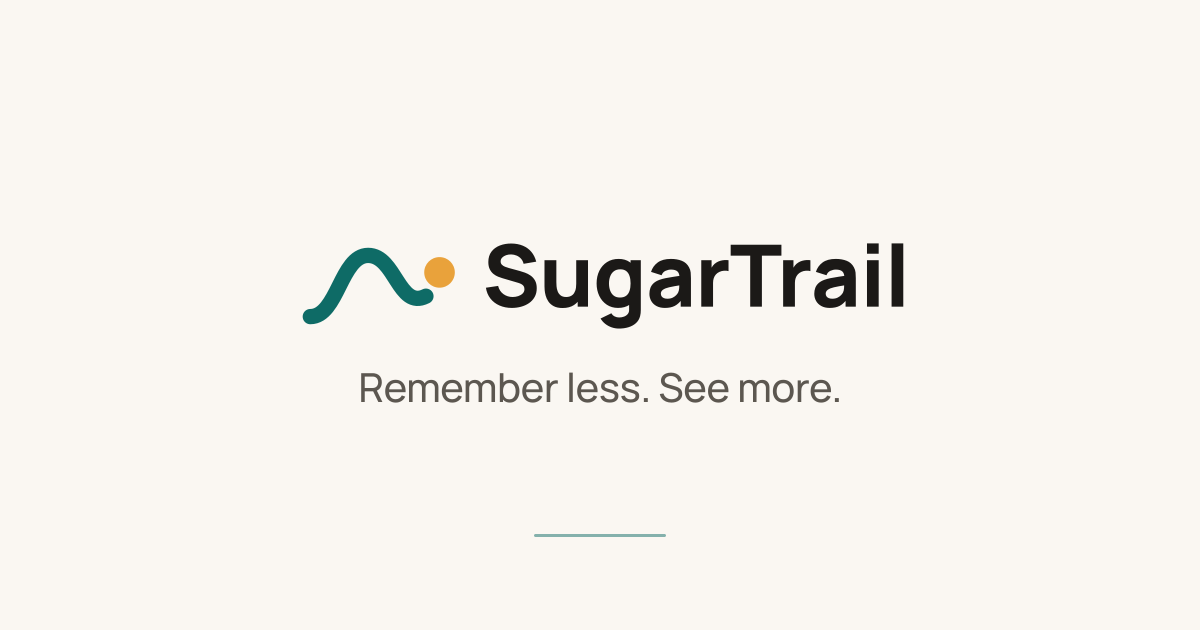
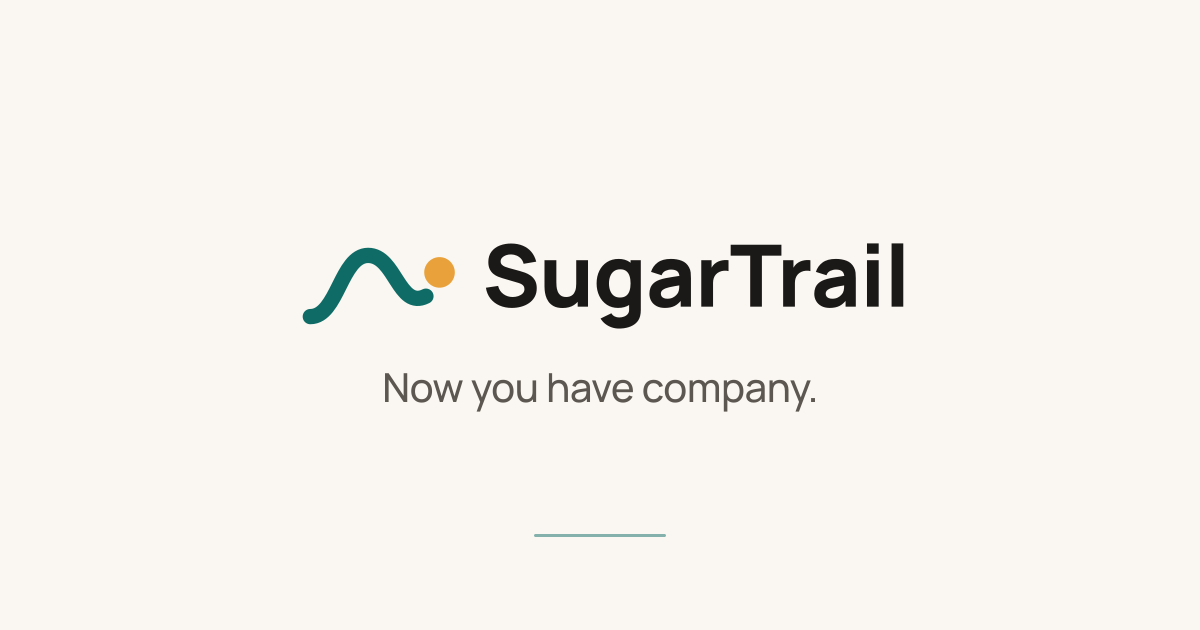
copy: the companion, first - and the trail ahead in place of the limits
"Diabetes is a long walk. Now you have company." leads instead of the old
benefit line: the headline now says what SugarTrail is rather than what it
saves you, which is the positioning the app was always written for.

The limits section becomes the road ahead - six things being built, in
roughly the order they arrive, with no dates attached to any of them. The
"not a medical device" line stays in the footer, where it belongs anyway.

The phone now shows the food memory rather than the calm state: a meal the
app recognises, what it did last time, and the curve it made. A stranger
can read that in a second; a quiet screen needs to be lived to be
understood.

Changed region(s): [[0.2775, 0.573, 0.7092, 0.6635]]

diff --git a/index.html b/index.html
@@ -67,7 +67,7 @@
         </a>
         <nav class="head-links" aria-label="Primary">
           <a class="on-wide" href="#does">What it does</a>
-          <a class="on-wide" href="#limits">Limits</a>
+          <a class="on-wide" href="#ahead">What is next</a>
           <a href="/privacy">Privacy</a>
         </nav>
       </div>
@@ -96,9 +96,8 @@
 
           <span class="eyebrow">A care buddy for diabetes</span>
           <h1 class="display">
-            <span class="line">Remember less.</span>
-            <span class="line">See more.</span>
-            <span class="line">Never walk it alone.</span>
+            <span class="line">Diabetes is a long walk.</span>
+            <span class="line">Now you have company.</span>
           </h1>
           <p class="lead">
             SugarTrail keeps your days in one place, shows you what works for you, reminds
@@ -115,8 +114,8 @@
                 <path d="M5 12h14M13 6l6 6-6 6" />
               </svg>
             </a>
-            <a class="btn-quiet" href="#limits"
-              >What it will not do
+            <a class="btn-quiet" href="#ahead"
+              >See what is coming
               <svg viewBox="0 0 24 24" fill="none" stroke="currentColor" stroke-width="2.2"
                 stroke-linecap="round" stroke-linejoin="round" aria-hidden="true">
                 <path d="M5 12h14M13 6l6 6-6 6" />
@@ -128,7 +127,7 @@
           <figure
             class="device-stage"
             role="img"
-            aria-label="The SugarTrail Now screen on a phone. A glucose reading of 118 milligrams per decilitre from Dexcom, marked in your range, above a card that reads: nothing needs your attention right now."
+            aria-label="The SugarTrail Now screen on a phone. A glucose reading of 118 milligrams per decilitre from Dexcom, marked in your range, above a card recalling the last time this meal was eaten: oats with berries, last Tuesday, 45 grams of carbohydrate with 4 units of insulin 18 minutes before, peaking at 168 and back in range by two hours."
           >
             <div class="device-scale">
               <div class="device-float">
@@ -169,13 +168,15 @@
                       <p class="s-src">Dexcom · 1 hour ago</p>
                     </div>
 
-                    <div class="s-card s-calm">
-                      <svg viewBox="0 0 300 40" preserveAspectRatio="none">
-                        <path d="M4 30 C 40 30, 50 8, 90 12 S 150 34, 190 22 S 250 6, 286 14" fill="none" stroke="var(--trail)" stroke-width="3" stroke-linecap="round" />
-                        <circle cx="290" cy="13" r="5" fill="var(--sunrise)" />
+                    <div class="s-card s-memory">
+                      <span class="s-label">You have had this before</span>
+                      <p class="s-food">Oats with berries</p>
+                      <svg class="s-spark" viewBox="0 0 260 44" preserveAspectRatio="none">
+                        <path d="M3 33 C 38 32, 68 9, 108 8 S 192 20, 257 27" fill="none" stroke="var(--trail)" stroke-width="2.6" stroke-linecap="round" />
+                        <circle cx="108" cy="8" r="4" fill="var(--sunrise)" />
                       </svg>
-                      <p class="s-calm-title">Nothing needs your attention right now.</p>
-                      <p class="s-src">Every feed is fresh. Enjoy the quiet.</p>
+                      <p class="s-meta">Last Tuesday · 45 g · 4.0 units · 18 min before</p>
+                      <p class="s-src">Peaked at 168. Back in range by two hours.</p>
                     </div>
 
                     <div class="s-strip">
@@ -501,64 +502,67 @@
         </div>
       </section>
 
-      <!-- -------------------------------------------------------- limits -->
-      <section id="limits" class="limits">
+      <!-- --------------------------------------------------------- ahead -->
+      <section id="ahead" class="ahead">
         <div class="shell">
           <div class="sec-head reveal">
-            <span class="eyebrow">Just as important</span>
-            <h2 class="title">What SugarTrail will not do.</h2>
+            <span class="eyebrow">What is next</span>
+            <h2 class="title">The trail ahead.</h2>
             <p class="lead">
-              An app that is vague about its limits is not being careful with you. These are
-              ours. They are enforced in the code, not promised in the marketing.
+              SugarTrail is being built one honest piece at a time. This is what is coming,
+              in roughly the order it arrives.
             </p>
           </div>
 
-          <ul class="limits-list">
+          <ul class="ahead-list">
             <li class="reveal">
-              <h3>It is not a medical device.</h3>
+              <h3>Every source, one trail.</h3>
               <p>
-                SugarTrail does not diagnose, treat or monitor. It records what happened and
-                shows it back. Every clinical decision stays with you and your clinician.
+                Your sensor, your pump and your phone, connected one at a time - so you
+                never type in something a device already knows.
               </p>
             </li>
             <li class="reveal">
-              <h3>It never calculates a dose.</h3>
+              <h3>The food memory.</h3>
               <p>
-                Your ratios, factors and targets are shown exactly as your clinic wrote them,
-                at the moment they are useful. The app never turns them into a number of
-                units.
+                Photograph a meal once. The next time you eat it, SugarTrail knows what it
+                is and what it did to you last time.
               </p>
             </li>
             <li class="reveal">
-              <h3>It is not an alarm.</h3>
+              <h3>Rooms for the moment you are in.</h3>
               <p>
-                Readings reach SugarTrail minutes to hours after they are taken, so it is
-                never the thing that warns you. Your sensor’s own app owns alerts, and it
-                always will.
+                Newly diagnosed, starting a pump, pregnancy, a trip, a hospital stay. Small
+                groups that end when the moment does.
               </p>
             </li>
             <li class="reveal">
-              <h3>It does not write medical advice.</h3>
+              <h3>Parents, together.</h3>
               <p>
-                Anything educational is quoted from a named source and linked to it, never
-                written in our own voice. The app is a librarian, not an author.
+                For parents of children with type 1, grouped by the age their child is now,
+                because the questions change every year.
               </p>
             </li>
             <li class="reveal">
-              <h3>It cannot fill in what nobody recorded.</h3>
+              <h3>Labs and medicines, from your clinic.</h3>
               <p>
-                Where a number is missing, the app says so plainly. It will never show an
-                invented value to make a gap look tidy.
+                Your results and your prescription list, pulled in from your health record,
+                so the numbers you are asked about are already there.
               </p>
             </li>
             <li class="reveal">
-              <h3>It is not finished.</h3>
+              <h3>Android.</h3>
               <p>
-                SugarTrail is in active development and not yet on the App Store. Connections
-                arrive one at a time, and this page says what is real today.
+                SugarTrail starts on iPhone because that is where the connections open
+                first. Android follows.
               </p>
             </li>
           </ul>
+
+          <p class="burdens-note reveal">
+            None of this carries a date. We would rather ship each piece when it is right
+            than promise you a month.
+          </p>
         </div>
       </section>
 
@@ -623,7 +627,7 @@
               <li><a href="#does">What it does</a></li>
               <li><a href="#works">Why it works</a></li>
               <li><a href="#promises">Promises</a></li>
-              <li><a href="#limits">Limits</a></li>
+              <li><a href="#ahead">What is next</a></li>
             </ul>
           </nav>
 

diff --git a/assets/site.css b/assets/site.css
@@ -694,29 +694,29 @@ section {
   font-size: 1rem;
 }
 
-/* ---------- Limits: the honest half -------------------------------------- */
-.limits {
+/* ---------- The trail ahead ---------------------------------------------- */
+.ahead {
   background: var(--surface);
   border-block: 1px solid var(--line);
 }
 
-.limits-list {
+.ahead-list {
   display: grid;
   gap: clamp(1.4rem, 2.8vw, 2.25rem);
 }
 
 @media (min-width: 52rem) {
-  .limits-list {
+  .ahead-list {
     grid-template-columns: repeat(2, 1fr);
     column-gap: clamp(2rem, 5vw, 4.5rem);
   }
 }
 
-.limits-list li {
+.ahead-list li {
   max-width: 30rem;
 }
 
-.limits-list h3 {
+.ahead-list h3 {
   font-size: 1.0625rem;
   font-weight: 700;
   padding-top: 0.9rem;
@@ -725,7 +725,7 @@ section {
   margin-bottom: 0.4rem;
 }
 
-.limits-list p {
+.ahead-list p {
   color: var(--ink-2);
   font-size: 1rem;
 }
@@ -1537,4 +1537,34 @@ section {
   left: 88%;
   background: var(--in-range);
   border-color: var(--surface);
+}
+
+/* The food memory, the card the phone leads with. */
+.s-memory .s-label {
+  display: block;
+}
+
+.s-food {
+  font-size: 15px;
+  font-weight: 700;
+  letter-spacing: -0.015em;
+  margin-top: 3px;
+  color: var(--ink);
+}
+
+.s-spark {
+  width: 100%;
+  height: 38px;
+  margin: 7px 0 6px;
+  overflow: visible;
+}
+
+.s-meta {
+  font-size: 10.5px;
+  font-weight: 600;
+  color: var(--ink);
+}
+
+.s-memory .s-src {
+  margin-top: 3px;
 }

diff --git a/privacy/index.html b/privacy/index.html
@@ -245,7 +245,7 @@
             <h2 id="f1">The app</h2>
             <ul>
               <li><a href="/#does">What it does</a></li>
-              <li><a href="/#limits">Limits</a></li>
+              <li><a href="/#ahead">What is next</a></li>
             </ul>
           </nav>
           <nav aria-labelledby="f2">

diff --git a/terms/index.html b/terms/index.html
@@ -172,7 +172,7 @@
             <h2 id="f1">The app</h2>
             <ul>
               <li><a href="/#does">What it does</a></li>
-              <li><a href="/#limits">Limits</a></li>
+              <li><a href="/#ahead">What is next</a></li>
             </ul>
           </nav>
           <nav aria-labelledby="f2">
